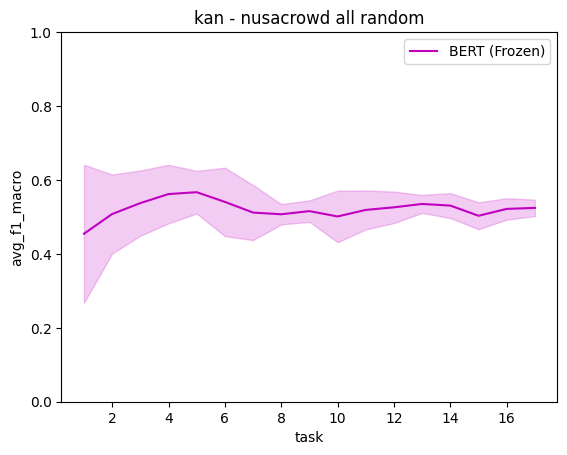
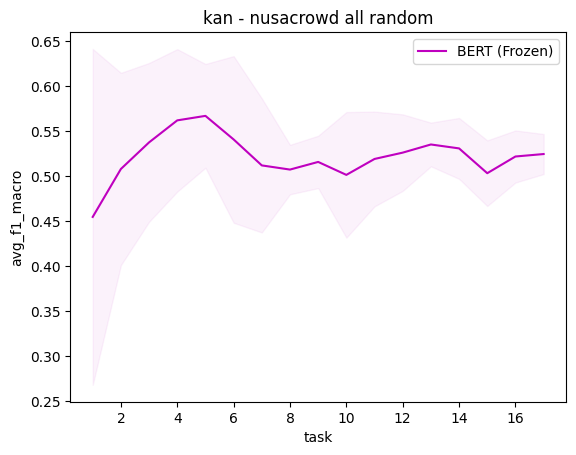
update viz

diff --git a/src/utils.py b/src/utils.py
@@ -712,7 +712,7 @@ def visualize(dir_name, exp_id, output, case_name, task):
             df = pd.read_csv(get_filename(dir_name, exp_id, output, base_metrics), sep="\s+", names=[i for i in range (n)])
             
             for i in df.index:
-                df.at[n-1, i] = df.at[i, i]
+                df.at[n-1, i] = np.mean([df.at[j, i] for j in range(i+1)])
             
             df = df.drop(range(16))
             
@@ -775,15 +775,15 @@ def create_viz(list_dataframe, title, legend, xlabel, ylabel, filename, list_exp
             std = calculate(list_dataframe[i], "std")
             
             plt.plot(x_indices, avg, color_const[legend[i]][0], label=legend[i])
-            plt.fill_between(x_indices, [(avg[i]-std[i]) for i in range (len(avg))], [(avg[i]+std[i]) for i in range (len(avg))], color= color_const[legend[i]][1], alpha=0.2)
+            plt.fill_between(x_indices, [(avg[i]-std[i]) for i in range (len(avg))], [(avg[i]+std[i]) for i in range (len(avg))], color= color_const[legend[i]][1], alpha=0.05)
     
     plt.title(title.replace('_.txt', ''))
     plt.xlabel(xlabel)
     plt.ylabel(ylabel)
     plt.legend()
 
-    if 'lss' not in filename:
-        plt.ylim(0, 1)
+    # if 'lss' not in filename:
+    #     plt.ylim(0, 1)
 
     plt.savefig(filename, bbox_inches='tight')
     plt.close()
@@ -812,7 +812,9 @@ def merge_viz(dir_name, list_exp_id, list_backbone, list_baseline, case_name, me
             df[exp_id] = df_mtl.iloc[-1].to_list()
         elif baseline == "one":
             df_one = pd.read_csv(get_filename(dir_name, exp_id, output, metrics), sep="\s+", names=[i for i in range(17)])
+            print(exp_id, df_one)
             df[exp_id] = df_one.iloc[0].values.tolist()
+            print(df_one.iloc[0].values.tolist())
         else:
             df[exp_id] = pd.read_csv(get_filename(dir_name, exp_id, output, metrics), sep="\s+", names=[exp_id])
         
